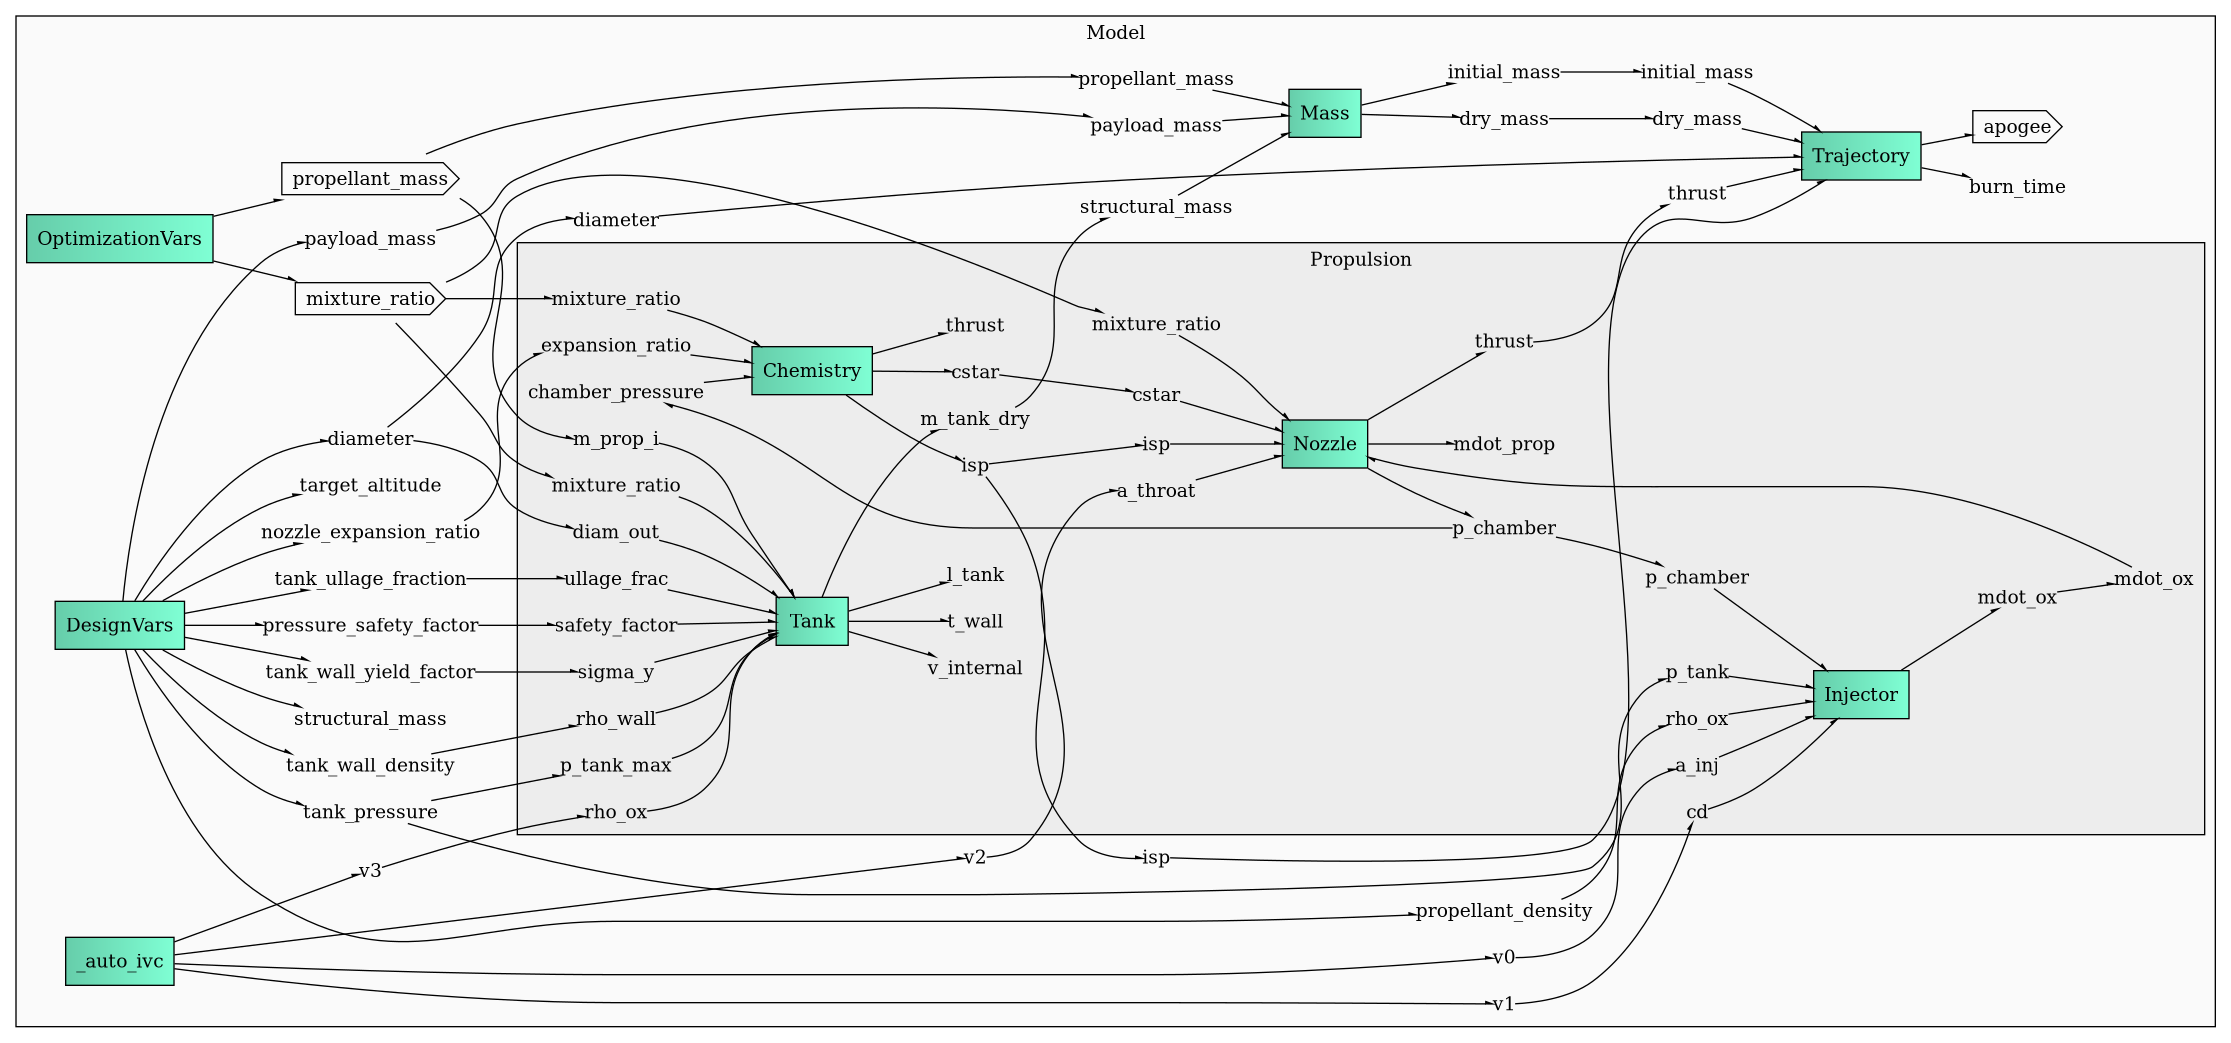
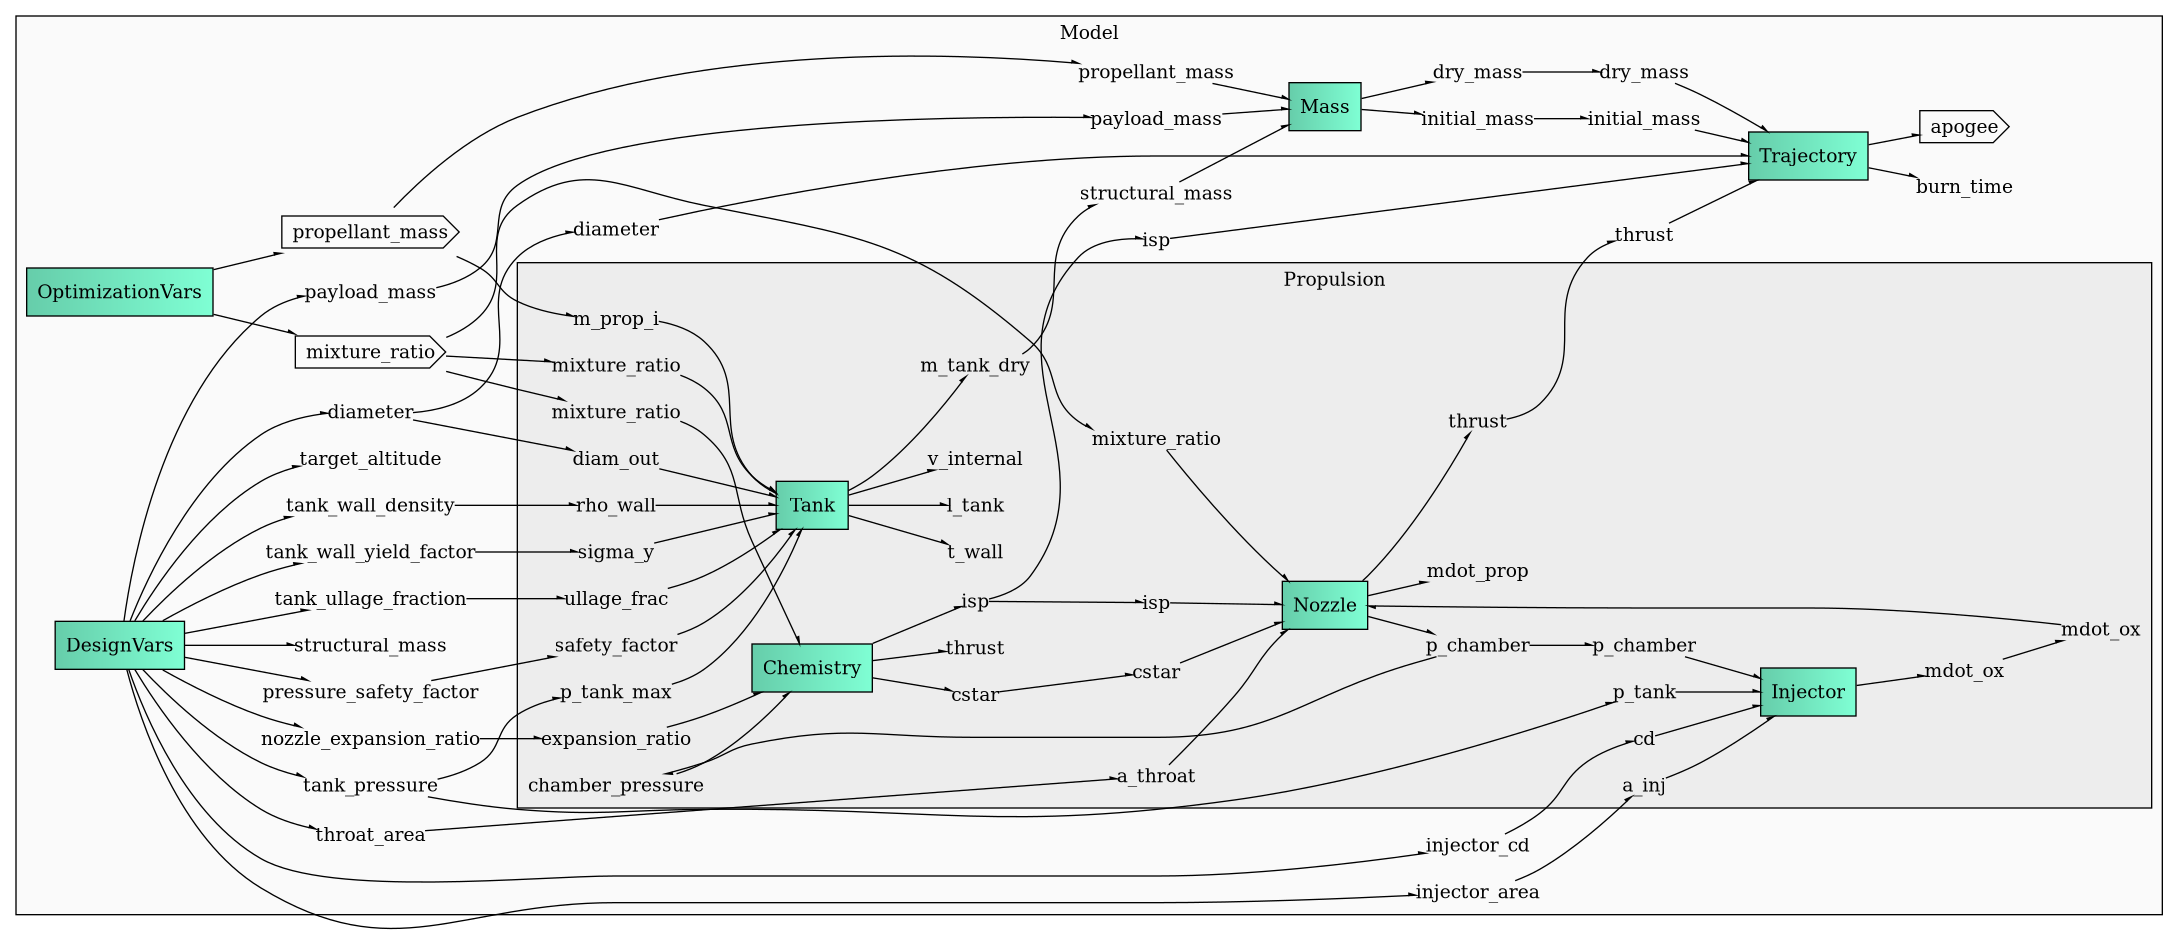
Cleaning up variable lists

diff --git a/modules/BEARS_Rocket/group_rocket.py b/modules/BEARS_Rocket/group_rocket.py
@@ -12,12 +12,15 @@ from .comp_traj  import TrajectoryComponent
 class RocketGroup(Group):
 
 	def initialize(self):
-		self.options.declare("cea", types=CEA_Obj)
-		self.options.declare("atm", types=BEARS_Atm)
+		self.options.declare("cea",      types=CEA_Obj)
+		self.options.declare("atm",      types=BEARS_Atm)
+		self.options.declare("rho_ox",   default=1200.0, types=float)
+		self.options.declare("rho_fuel", default=900.0,  types=float)
 
 	def setup(self):
-		cea = self.options["cea"]
-		atm = self.options["atm"]
+		cea    = self.options["cea"]
+		atm    = self.options["atm"]
+		rho_ox = self.options["rho_ox"]
 
 		#region Independent variable components
 		# DesignVars: catch-all for free design parameters
@@ -31,9 +34,12 @@ class RocketGroup(Group):
 		ivc.add_output("tank_ullage_fraction",   val=0.1)
 		ivc.add_output("tank_wall_yield_factor", val=276e6,  units="Pa")
 		ivc.add_output("tank_wall_density",      val=2700.0, units="kg/m**3")
-		ivc.add_output("propellant_density",     val=1200.0, units="kg/m**3")
 		ivc.add_output("nozzle_expansion_ratio", val=40.0)
 		ivc.add_output("structural_mass",        val=2.0,    units="kg")
+
+		ivc.add_output("injector_area",          val=4.5e-5, units="m**2")
+		ivc.add_output("injector_cd",            val=0.7)
+		ivc.add_output("throat_area",            val=5.0e-4, units="m**2")
 
 		# OptimizationVars: specific parameters that we wish to optimize against
 		ovc = self.add_subsystem("OptimizationVars", IndepVarComp())
@@ -42,7 +48,10 @@ class RocketGroup(Group):
 		#endregion
 
 		#region Subsystems
-		self.add_subsystem("Propulsion", PropulsionGroup(cea=cea))
+		self.add_subsystem(
+			"Propulsion",
+			PropulsionGroup(cea=cea, rho_ox=rho_ox),
+		)
 
 		self.add_subsystem("Mass", MassComponent())
 
@@ -61,8 +70,10 @@ class RocketGroup(Group):
 		self.connect("DesignVars.tank_ullage_fraction",   "Propulsion.Tank.ullage_frac")
 		self.connect("DesignVars.tank_wall_yield_factor", "Propulsion.Tank.sigma_y")
 		self.connect("DesignVars.tank_wall_density",      "Propulsion.Tank.rho_wall")
-		self.connect("DesignVars.propellant_density",     "Propulsion.rho_ox")
 		self.connect("DesignVars.nozzle_expansion_ratio", "Propulsion.expansion_ratio")
+		self.connect("DesignVars.injector_area",          "Propulsion.a_inj")
+		self.connect("DesignVars.injector_cd",            "Propulsion.cd")
+		self.connect("DesignVars.throat_area",            "Propulsion.a_throat")
 
 		self.connect("OptimizationVars.propellant_mass",  "Propulsion.m_prop_i")
 

diff --git a/solver.py b/solver.py
@@ -20,7 +20,7 @@ from rocketcea.cea_obj import CEA_Obj
 from openmdao.visualization.graph_viewer import GraphViewer
 
 from modules.BEARS_Atmo   import BEARS_Atm
-from modules.BEARS_Chem   import Reactant, parse_reactants
+from modules.BEARS_Chem   import Reactant, parse_reactants, parse_densities
 from modules.BEARS_Rocket import RocketGroup
 # endregion
 
@@ -39,6 +39,7 @@ def main():
 	with open("inputs/reactants.json", "r") as retrieved:
 		data = json.load(retrieved)
 		oname, fname = parse_reactants(data)
+		rho_ox, rho_fuel = parse_densities(data)
 	# endregion
 
 	atm = BEARS_Atm("isacalc")
@@ -46,7 +47,12 @@ def main():
 
 	prob = om.Problem(reports=True, work_dir=work_dir)
 
-	prob.model = RocketGroup(atm=atm, cea=cea)
+	prob.model = RocketGroup(
+		atm=atm,
+		cea=cea,
+		rho_ox=rho_ox,
+		rho_fuel=rho_fuel,
+	)
 
 	prob.driver = om.ScipyOptimizeDriver()
 	prob.driver.options["optimizer"] = "SLSQP"
@@ -75,6 +81,9 @@ def main():
 	prob.set_val("DesignVars.diameter", 0.4)
 	prob.set_val("DesignVars.tank_pressure", 30e5)
 	prob.set_val("DesignVars.nozzle_expansion_ratio", 40.0)
+	prob.set_val("DesignVars.injector_area", 4.5e-5)
+	prob.set_val("DesignVars.injector_cd", 0.7)
+	prob.set_val("DesignVars.throat_area", 5.0e-4)
 
 	# Optimization initial values
 	prob.set_val("OptimizationVars.mixture_ratio", 6.0)

diff --git a/modules/BEARS_Rocket/group_prop.py b/modules/BEARS_Rocket/group_prop.py
@@ -13,15 +13,17 @@ from .comp_nozzle   import NozzleComponent
 class PropulsionGroup(Group):
 
 	def initialize(self):
-		self.options.declare("cea", types=CEA_Obj)
+		self.options.declare("cea",    types=CEA_Obj)
+		self.options.declare("rho_ox", default=1200.0, types=float)
 
 	def setup(self):
-		cea = self.options["cea"]
+		cea    = self.options["cea"]
+		rho_ox = self.options["rho_ox"]
 
 		#region Subsystems
 		self.add_subsystem(
 			"Tank",
-			TankComponent(),
+			TankComponent(rho_ox=rho_ox),
 			promotes_inputs=[
 				"diam_out", "m_prop_i", "mixture_ratio",
 				("p_tank_max", "p_tank"),
@@ -35,8 +37,8 @@ class PropulsionGroup(Group):
 
 		self.add_subsystem(
 			"Injector",
-			InjectorComponent(),
-			promotes_inputs=["p_tank", "rho_ox"],
+			InjectorComponent(rho_ox=rho_ox),
+			promotes_inputs=["p_tank", "a_inj", "cd"],
 		)
 
 		self.add_subsystem(
@@ -49,7 +51,7 @@ class PropulsionGroup(Group):
 		self.add_subsystem(
 			"Nozzle",
 			NozzleComponent(),
-			promotes_inputs=["mixture_ratio", "isp"],
+			promotes_inputs=["mixture_ratio", "isp", "a_throat"],
 			promotes_outputs=["thrust"],
 		)
 		#endregion

diff --git a/modules/BEARS_Chem/chem.py b/modules/BEARS_Chem/chem.py
@@ -48,6 +48,14 @@ class Reactant:
 			for k, v in part.items():
 				self.formula[k] = self.formula.get(k, 0) + v
 
+	def get_density_si(self) -> float:
+		"""Return density in kg/m^3"""
+		if self.density is None:
+			return 1000.0
+		if self.density_units in ["g/cm^3", "g/cc", "g/cm3"]:
+			return self.density * 1000.0
+		return self.density
+
 	def convert_enth_units(self, eu_out: str):
 
 		# TODO complete the list of conversions/add a better conversion method
@@ -169,3 +177,18 @@ def parse_reactants(data: dict[str, list[dict]]) -> tuple[str, str]:
 		rnames[rtype] = rname
 
 	return rnames["oxid"], rnames["fuel"]
+
+def parse_densities(data: dict[str, list[dict]]) -> tuple[float, float]:
+	"""
+	Calculate effective bulk densities for oxidizer and fuel in kg/m^3.
+	"""
+	densities: dict[str, float] = {}
+	for rtype in ["oxid", "fuel"]:
+		reactants = list(map(Reactant, data[rtype]))
+		wt_total = sum(r.mass_fraction for r in reactants)
+		inv_rho = sum(
+			(r.mass_fraction / wt_total) / r.get_density_si() for r in reactants
+		)
+		densities[rtype] = 1.0 / inv_rho
+
+	return densities["oxid"], densities["fuel"]

diff --git a/modules/BEARS_Rocket/comp_tank.py b/modules/BEARS_Rocket/comp_tank.py
@@ -6,10 +6,12 @@ from openmdao.api import ExplicitComponent
 
 class TankComponent(ExplicitComponent):
 
+	def initialize(self):
+		self.options.declare("rho_ox", default=1200.0, types=float)
+
 	def setup(self):
 		self.add_input("m_prop_i",      val=10.0,   units="kg")
 		self.add_input("mixture_ratio", val=6.0)
-		self.add_input("rho_ox",        val=1200.0, units="kg/m**3")
 
 		self.add_input("p_tank_max",    val=60e5,   units="Pa")
 		self.add_input("diam_out",      val=0.5,    units="m")
@@ -30,7 +32,7 @@ class TankComponent(ExplicitComponent):
 	def compute(self, inputs, outputs):
 		m_prop  = inputs["m_prop_i"]
 		f_prop  = inputs["mixture_ratio"]
-		rho_ox  = inputs["rho_ox"]
+		rho_ox  = self.options["rho_ox"]
 		p_max   = inputs["p_tank_max"]
 		d_out   = inputs["diam_out"]
 		uf      = inputs["ullage_frac"]

diff --git a/modules/BEARS_Rocket/comp_injector.py b/modules/BEARS_Rocket/comp_injector.py
@@ -6,10 +6,12 @@ from openmdao.api import ExplicitComponent
 
 class InjectorComponent(ExplicitComponent):
 
+	def initialize(self):
+		self.options.declare("rho_ox", default=1200.0, types=float)
+
 	def setup(self):
 		self.add_input("p_tank",    val=30e5,   units="Pa")
 		self.add_input("p_chamber", val=20e5,   units="Pa")
-		self.add_input("rho_ox",    val=1200.0, units="kg/m**3")
 		self.add_input("a_inj",     val=4.5e-5, units="m**2")
 		self.add_input("cd",        val=0.7) # Discharge coefficient (efficiency)
 
@@ -21,7 +23,7 @@ class InjectorComponent(ExplicitComponent):
 	def compute(self, inputs, outputs):
 		p_up   = inputs["p_tank"]
 		p_down = inputs["p_chamber"]
-		rho    = inputs["rho_ox"]
+		rho    = self.options["rho_ox"]
 		area   = inputs["a_inj"]
 		cd     = inputs["cd"]
 

diff --git a/modules/BEARS_Chem/__init__.py b/modules/BEARS_Chem/__init__.py
@@ -1,1 +1,1 @@
-from .chem import Reactant, parse_reactants
+from .chem import Reactant, parse_reactants, parse_densities
